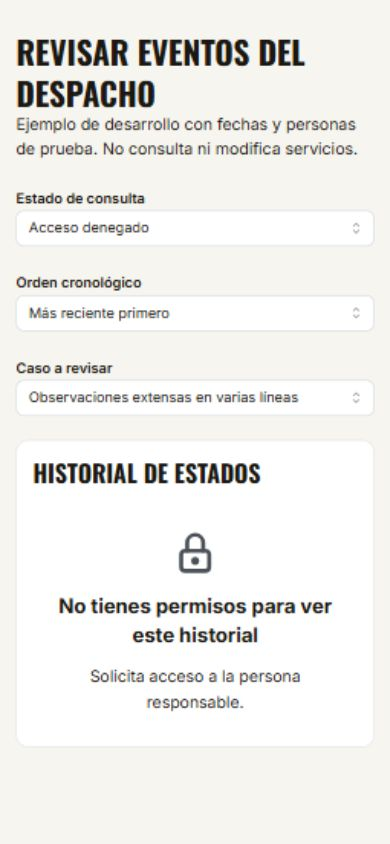
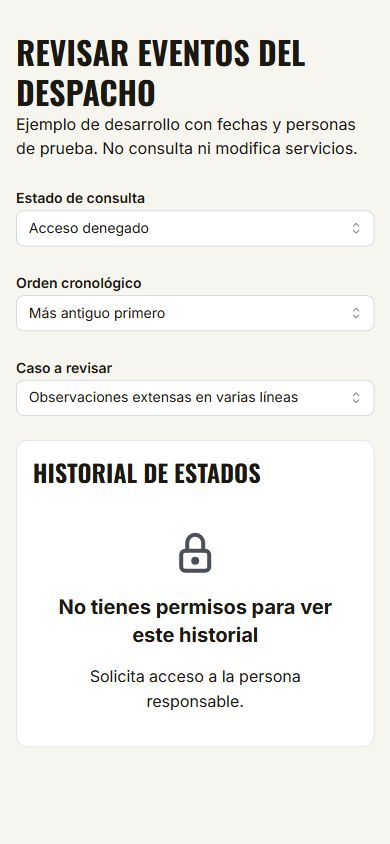
docs(f04): actualizar evidencia con el contrato vigente del historial

diff --git a/docs/componentes/CR-19-HistorialEstados.md b/docs/componentes/CR-19-HistorialEstados.md
@@ -2,17 +2,17 @@
 
 **Fecha:** 16/10/2026, America/Lima. **Responsable:** Gerardo, con asistencia de Codex.
 
-**Rama:** `feature/f04-historial-estados`, creada desde `main` e incorporando la dependencia CR-08 hasta `abce8df`. Código, ejemplo y pruebas de este incremento: `d5604fa10ba987bd0165c9f88eb25c6671a924f3`.
+**Rama:** `feature/f04-historial-estados`, creada desde `main` e incorporando la dependencia CR-08 hasta `abce8df`. Código, ejemplo y pruebas iniciales: `d5604fa10ba987bd0165c9f88eb25c6671a924f3`; ajuste a la zona de Lima y prueba de medianoche: `532f7884a51ec3305b7f83858c3a60f7c3c5169d`.
 
 **Estado:** implementación y verificación aislada realizadas. Revisión humana de Max, coordinación con Rhamses sobre el soporte de CR-09, PR e integración consumidora pendientes.
 
 ## 1. Entradas y alcance
 
-Fuentes del repositorio de especificaciones en `dd614bdfeb439ded41c74b73b5d59d9c1724f5fb`:
+Fuentes del repositorio de especificaciones en `54b785d13f25bc3017cc407332446b3ac83b243e`:
 
-- [CR-19 y CCR-19-01](https://github.com/Taller-SW-Web/G2-Despacho-Specs/blob/dd614bdfeb439ded41c74b73b5d59d9c1724f5fb/disenio/componentes-react.md#cr-19-historialestados): propiedades, eventos y trazabilidad ICR-08/TCR-08. CR-08 y CR-09 son sus dependencias; DC-04/DC-06 limitan la integración real [cite: 1].
-- [Sistema de diseño](https://github.com/Taller-SW-Web/G2-Despacho-Specs/blob/dd614bdfeb439ded41c74b73b5d59d9c1724f5fb/disenio/SYSTEM-DESIGN.md): §§5.5, 16.1 y 23; fechas, catálogo de estados y Timeline dentro de tarjeta [cite: 2].
-- [Contrato de Gestión, recepción en centro](https://github.com/Taller-SW-Web/G2-Despacho-Specs/blob/dd614bdfeb439ded41c74b73b5d59d9c1724f5fb/integraciones/api-contract-gestion-despachos.md): §5.2, la recepción conserva el estado `FALLIDO` [cite: 3].
+- [CR-19 y CCR-19-01](https://github.com/Taller-SW-Web/G2-Despacho-Specs/blob/54b785d13f25bc3017cc407332446b3ac83b243e/disenio/componentes-react.md#cr-19-historialestados): propiedades, eventos y trazabilidad ICR-08/TCR-08. CR-08 y CR-09 son sus dependencias [cite: 1].
+- [Sistema de diseño](https://github.com/Taller-SW-Web/G2-Despacho-Specs/blob/54b785d13f25bc3017cc407332446b3ac83b243e/disenio/SYSTEM-DESIGN.md): §§5.5, 16.1 y 23; fechas, catálogo de estados y Timeline dentro de tarjeta [cite: 2].
+- [Contrato de Gestión](https://github.com/Taller-SW-Web/G2-Despacho-Specs/blob/54b785d13f25bc3017cc407332446b3ac83b243e/integraciones/api-contract-gestion-despachos.md): §§5.2.1 y 5.3, recepción sin cambio de `FALLIDO`, DTO de historial y presentación en `America/Lima` [cite: 3].
 
 El componente presenta eventos confirmados por el servidor. Una recepción sin transición muestra su descripción, fecha y estado disponible; no crea un estado «Recibido». No registra pulsaciones locales como auditoría ni consulta servicios.
 
@@ -33,8 +33,10 @@ import { HistorialEstados } from '@despacho/componentes-compartidos';
 
 Las variables y el callback del ejemplo pertenecen a la pantalla consumidora. Cada entrada requiere `id`, `fechaServidor` y `descripcionEvento`; admite `estadoAnterior`, `estadoNuevo`, `ejecutor` y `observacion` opcionales, también nulos.
 
+Gestión §5.3 ya define el DTO real. Su futuro adaptador debe traducir la operación, origen manual/automático y datos pertinentes a los textos de presentación, sin volcar JSON interno ni inventar nombres de usuario. El servidor entrega empates por `id` ascendente; el componente conserva ese orden recibido. Este incremento mantiene la interfaz de CR-19 y no implementa todavía la consulta del detalle.
+
 - Ordena una copia por instante del servidor y conserva el orden recibido en empates, tanto ascendentes como descendentes. Los campos opcionales ausentes no se deducen de otros eventos.
-- Mantiene el instante original en `time[datetime]`. Muestra `DD/MM/YYYY HH:mm` con Day.js y locale español, en la zona del dispositivo indicada en el bloque. Esto permite revisar la UI aislada; no cierra el acuerdo de zona operativa de DC-06.
+- Mantiene el instante original en `time[datetime]`. Muestra `DD/MM/YYYY HH:mm` con Day.js y locale español, fijando `America/Lima` conforme a Gestión §5.3 y sin depender de la zona del navegador. La etiqueta visible indica «Hora de Lima».
 - Fechas vacías, civiles, sin zona o no interpretables muestran «Fecha no disponible» y quedan al final, con orden estable. Nunca se sustituye una fecha ausente por la hora actual.
 - Usa CR-08 para los siete estados de consulta. Fuera de `datos` retira eventos anteriores; `datos` sin entradas muestra vacío. `alReintentar` se emite sin argumentos y solo existe un botón cuando se proporciona el callback.
 - Conserva observaciones completas, saltos de línea y ajuste en una columna. La tarjeta tiene encabezado H3 y lista accesible; los eventos tienen descripción H4.
@@ -49,9 +51,11 @@ Comandos desde la raíz del frontend: `npm test`, `npm run typecheck`, `npm run 
 
 | Registro | Evidencia | Resultado observado |
 |---|---|---|
-| EVCR-19-01 | [Pruebas de CR-19](../../packages/componentes-compartidos/src/dominio/HistorialEstados.test.tsx), CCR-19-01 → TCR-08 | 27 pruebas aprobadas: recepción sin transición, fechas reales, orden estable y por instante, colección inmutable, opcionales, recuperación, estados de consulta y textos completos. |
-| EVCR-19-02 | [Pruebas del soporte de estados](../../packages/componentes-compartidos/src/dominio/BadgeEstado.test.tsx) y dependencia CR-08 | 13 pruebas del contexto despacho y 18 de EstadoVista aprobadas; total de esta rama: 58 pruebas en tres archivos. |
+| EVCR-19-01 | [Pruebas de CR-19](../../packages/componentes-compartidos/src/dominio/HistorialEstados.test.tsx), CCR-19-01 → TCR-08 | 28 pruebas aprobadas: recepción sin transición, fechas reales, medianoche de Lima, orden estable y por instante, colección inmutable, opcionales, recuperación, estados de consulta y textos completos. |
+| EVCR-19-02 | [Pruebas del soporte de estados](../../packages/componentes-compartidos/src/dominio/BadgeEstado.test.tsx) y dependencia CR-08 | 13 pruebas del contexto despacho y 18 de EstadoVista aprobadas; total de esta rama: 59 pruebas en tres archivos. |
 | EVCR-19-03 | Compatibilidad e higiene | TypeScript del paquete compartido, ejemplo y ambas aplicaciones aprobado; builds administrativo y repartidor aprobados; diff sin errores de espacios. |
+
+La última ejecución de pruebas usó `TZ=Asia/Tokyo`; Node confirmó esa zona. El caso de medianoche mantuvo `16/10/2026 23:59` y `17/10/2026 00:00` en Lima para instantes UTC consecutivos, conservando sus atributos originales. En PowerShell se reproduce con `$env:TZ = 'Asia/Tokyo'` antes de `npm test`.
 
 [Ejemplo de desarrollo](../../apps/despacho-administrativo/ejemplos/historial-estados.tsx): `http://127.0.0.1:5173/ejemplos/historial-estados.html`. Fechas y personas son fixtures, sin operaciones de backend.
 
@@ -66,7 +70,7 @@ En error se recorrió el botón con Tab y se activó con Enter: foco visible, ca
 
 ## 4. Límites y entrega
 
-DC-04 sigue pendiente para el DTO real de historial y DC-06 para la zona operativa. Este modelo no define un contrato HTTP. La consulta, autorización del servidor y adaptación al detalle de incidencia deben verificarse al integrar el consumidor. Esta evidencia no acredita esos servicios ni cierra las especificaciones funcionales.
+El contrato vigente ya define el DTO de historial y la zona `America/Lima` para el detalle de F-04. La revisión final incorporó esa decisión a las fechas del componente; las cuestiones generales DC-04/DC-06 no se cierran desde este incremento. La consulta, autorización del servidor y adaptación al detalle de incidencia deben verificarse al integrar el consumidor. Esta evidencia no acredita esos servicios ni cierra las especificaciones funcionales.
 
 El registro se conserva en `docs/` del frontend. Las especificaciones y sus estados no se modifican desde este incremento. Los commits permanecen locales; la revisión humana y entrega por PR siguen pendientes.
 
@@ -74,4 +78,4 @@ El registro se conserva en `docs/` del frontend. Las especificaciones y sus esta
 
 1. Documento de componentes de la revisión indicada en §1: CR-19, CCR-19-01, ICR-08/TCR-08, CR-08/09 y DC-04/06.
 2. Sistema de diseño de la misma revisión: §§5.5, 16.1 y 23.
-3. Contrato de Gestión de la misma revisión: §5.2, recepción física sin cambio del estado del despacho.
+3. Contrato de Gestión de la misma revisión: §§5.2.1 y 5.3, recepción física, historial y fechas del detalle.
